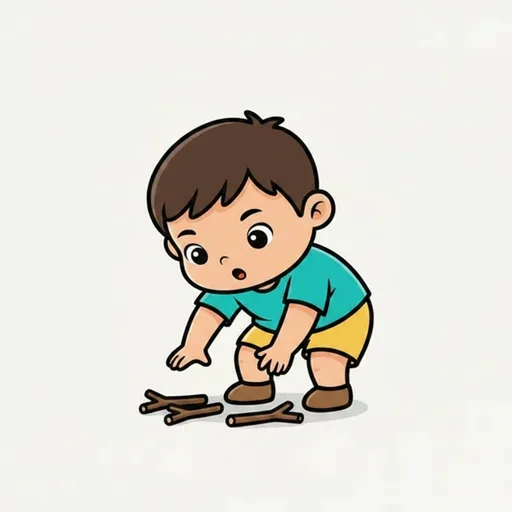
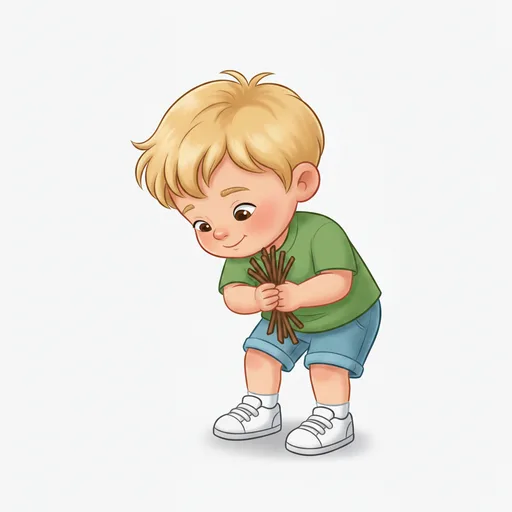
Feat: animation diversity — child-featuring songs re-cast diverse
Re-cast the 4 child-featuring songs so the animated cast spans skin
tones, completing the animation-diversity initiative (verbs already done):
- Head-Shoulders-Knees-&-Toes → Black girl (ready/head/shoulders/knees/
  toes/eyes/ears/mouth/nose)
- One-Two-Buckle My Shoe → white boy (shoe/door/sticks/hen)
- Hokey Pokey → brown girl (in/out/shake/turn)
- The Happy Song → Asian boy (clap/stomp/hooray)

toes = a proper bend-down toe-touch (owner-supplied render) rather than a
lifted-leg pose, so the rhythmic move reads clearly. Poses swapped per
existing key only — songAnimations.js cue timeline/timing untouched, so
every frame stays synced to its lyric. verify-song-anims + check green.

Changed region(s): [[0.25, 0.125, 0.75, 0.9062]]

diff --git a/TINYVVOICE_PROJECT_CONTEXT.md b/TINYVVOICE_PROJECT_CONTEXT.md
@@ -5,16 +5,16 @@ A git pre-commit hook auto-refreshes the metadata block below; the human-maintai
 sections (Build Status, Next Steps) are updated by hand each push.
 
 <!-- AUTO:START -->
-> _Auto-updated on commit — last refreshed **2026-08-28 20:49 UTC** on branch `main`._
+> _Auto-updated on commit — last refreshed **2026-08-29 02:15 UTC** on branch `main`._
 
 **Recent commits:**
 
+- `67bd5ff Polish: swimming scene 2 → horizontal paddling pose`
 - `b308c8c Fix: waving full-body (both frames) + laughing floating "ha ha ha"`
 - `bcddec5 Feat: animation diversity Batch 2b — final 10 verbs; ALL verbs now diverse`
 - `5acaff7 Feat: animation diversity Batch 2a — 8 verbs re-cast (locked method)`
 - `863b438 Fix: lock clothing consistency on dance/hug/wake (frame2 conditioned on frame1)`
 - `a0a5244 Feat: animation diversity Batch 1b — 6 verbs re-cast; Batch 1 complete`
-- `bc3f4e1 Feat: animation diversity Batch 1a — 5 verbs re-cast (fresh method)`
 <!-- AUTO:END -->
 
 ---
